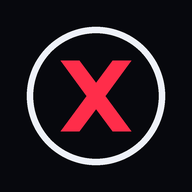
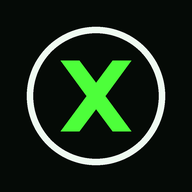
Beyblade green theme

Changed region(s): [[0.3125, 0.3125, 0.6875, 0.6875]]

diff --git a/styles.css b/styles.css
@@ -1,18 +1,19 @@
 /* Layout concept: a competition HUD. Angled plates on a dark arena floor,
    one red X accent, and four type colours that only ever mean a Blader type. */
 :root {
-  --ink: #07080d;
-  --panel: #10131d;
-  --panel-2: #171b29;
-  --line: #272d43;
-  --fg: #eef1f8;
-  --muted: #8b93ab;
-  --x: #ff2d4a;
-  --x-dim: #ff2d4a26;
+  --ink: #050a06;
+  --panel: #0c160f;
+  --panel-2: #122016;
+  --line: #213a29;
+  --fg: #effaf1;
+  --muted: #8fab97;
+  --x: #4dff3a;
+  --on-x: #041206;
+  --x-dim: #4dff3a24;
   --volt: #39d3ff;
   --t-atk: #ff4b5c;
   --t-def: #4b8dff;
-  --t-sta: #33dd8f;
+  --t-sta: #22c9bb;
   --t-bal: #ffc23d;
   --good: #33dd8f;
   --bad: #ff4b5c;
@@ -31,7 +32,7 @@ html, body { min-height: 100%; }
 body {
   margin: 0;
   background:
-    radial-gradient(1200px 600px at 85% -10%, #ff2d4a14, transparent 60%),
+    radial-gradient(1200px 600px at 85% -10%, #4dff3a1c, transparent 60%),
     radial-gradient(900px 500px at -10% 110%, #39d3ff10, transparent 60%),
     repeating-linear-gradient(115deg, transparent 0 46px, #ffffff05 46px 47px),
     var(--ink);
@@ -57,7 +58,7 @@ h1, h2, h3 { font-family: var(--f-display); font-weight: 800; line-height: .95; 
   position: sticky; top: env(safe-area-inset-top, 0px); z-index: 20;
   display: flex; align-items: center; gap: 14px; flex-wrap: wrap;
   padding: 12px var(--gutter);
-  background: #07080dee; backdrop-filter: blur(8px);
+  background: #050a06ee; backdrop-filter: blur(8px);
   border-bottom: 1px solid var(--line);
 }
 .brand { display: flex; align-items: center; gap: 10px; text-decoration: none; color: var(--fg); margin-right: auto; }
@@ -86,7 +87,7 @@ h1, h2, h3 { font-family: var(--f-display); font-weight: 800; line-height: .95; 
 }
 .btn:hover { filter: brightness(1.2); }
 .btn:active { transform: translateY(1px); }
-.btn.primary { --b: var(--x); --c: #fff; }
+.btn.primary { --b: var(--x); --c: var(--on-x); }
 .btn.ghost { --b: transparent; box-shadow: inset 0 0 0 1px var(--line); }
 .btn.small { min-height: 34px; padding: 6px 14px; font-size: 12px; --cut: 8px; }
 .btn.danger { --b: #ff4b5c22; --c: var(--bad); }
@@ -122,8 +123,8 @@ h1, h2, h3 { font-family: var(--f-display); font-weight: 800; line-height: .95; 
 .door:hover { border-color: var(--muted); transform: translateY(-2px); }
 .door strong { font: 800 clamp(28px, 3.4vw, 38px)/1 var(--f-display); text-transform: uppercase; }
 .door span:last-child { color: var(--muted); font-size: 15px; }
-.door-main { background: linear-gradient(135deg, var(--x) 0%, #b5122a 100%); border-color: transparent; }
-.door-main .k, .door-main span:last-child { color: #ffffffcc; }
+.door-main { background: linear-gradient(135deg, var(--x) 0%, #178f1f 100%); border-color: transparent; color: var(--on-x); }
+.door-main .k, .door-main span:last-child { color: #041206cc; }
 .ticker { display: flex; gap: 28px; flex-wrap: wrap; margin-top: 10px; padding-top: 18px; border-top: 1px solid var(--line); }
 .ticker div { display: grid; gap: 2px; }
 .ticker b { font: 700 28px/1 var(--f-hud); font-variant-numeric: tabular-nums; }
@@ -258,7 +259,7 @@ input:focus, select:focus, textarea:focus { outline: none; border-color: var(--v
 .optrow .grid4 label { font: 600 10px/1 var(--f-hud); letter-spacing: .12em; color: var(--tc); }
 
 .screen-pick { display: grid; grid-template-columns: repeat(auto-fit, minmax(130px, 1fr)); gap: 8px; }
-.screen-pick .btn[aria-pressed="true"] { --b: var(--x); --c: #fff; }
+.screen-pick .btn[aria-pressed="true"] { --b: var(--x); --c: var(--on-x); }
 
 /* ---------- modal ---------- */
 .modal-bg { position: fixed; inset: 0; z-index: 50; background: #000000b3; display: grid; place-items: start center; overflow-y: auto; padding: max(24px, env(safe-area-inset-top, 0px)) 16px 40px; }
@@ -308,7 +309,7 @@ body[data-view="arena"] { overflow: hidden; }
 .versus .vs { font: 900 clamp(50px, 14vh, 200px)/1 var(--f-display); color: var(--x); }
 .versus .names-row { display: flex; gap: 1.6vw; flex-wrap: wrap; justify-content: center; }
 .versus .names-row span { font: 700 clamp(14px, 2.4vh, 30px)/1 var(--f-hud); letter-spacing: .08em; text-transform: uppercase; color: var(--muted); }
-.launch { font: 800 clamp(22px, 4.4vh, 60px)/1 var(--f-display); text-transform: uppercase; letter-spacing: .06em; padding: 1.4vh 3vw; background: var(--x); color: #fff; clip-path: polygon(20px 0, 100% 0, calc(100% - 20px) 100%, 0 100%); animation: pulse 1.6s ease-in-out infinite; }
+.launch { font: 800 clamp(22px, 4.4vh, 60px)/1 var(--f-display); text-transform: uppercase; letter-spacing: .06em; padding: 1.4vh 3vw; background: var(--x); color: var(--on-x); clip-path: polygon(20px 0, 100% 0, calc(100% - 20px) 100%, 0 100%); animation: pulse 1.6s ease-in-out infinite; }
 
 /* ---------- live team quiz ---------- */
 .live-me { display: grid; grid-template-columns: 48px 1fr auto; gap: 12px; align-items: center; padding: 12px 14px; background: var(--panel); border: 1px solid var(--line); margin-bottom: 26px; }
@@ -319,7 +320,7 @@ body[data-view="arena"] { overflow: hidden; }
 .verdict h1 { font-size: clamp(38px, 9vw, 60px); }
 .verdict.win h1 { color: var(--good); }
 .verdict.lose h1 { color: var(--muted); }
-.cd-chip { font: 700 22px/1 var(--f-hud); min-width: 54px; text-align: center; padding: 8px 10px; background: var(--x); color: #fff; clip-path: polygon(8px 0, 100% 0, calc(100% - 8px) 100%, 0 100%); }
+.cd-chip { font: 700 22px/1 var(--f-hud); min-width: 54px; text-align: center; padding: 8px 10px; background: var(--x); color: var(--on-x); clip-path: polygon(8px 0, 100% 0, calc(100% - 8px) 100%, 0 100%); }
 .chip.warnchip { color: var(--t-bal); border-color: #ffc23d66; margin-left: 6px; vertical-align: middle; }
 .qopts span.right { color: var(--good); background: #33dd8f1a; }
 .qr-mini { background: #fff; padding: 4px; width: 110px; aspect-ratio: 1; max-width: 100%; }

diff --git a/index.html b/index.html
@@ -5,7 +5,7 @@
 <meta name="viewport" content="width=device-width,initial-scale=1,viewport-fit=cover">
 <title>Baeblade Academy</title>
 <meta name="description" content="Blader assessments, teams and arena control for the Baeblade Academy party.">
-<meta name="theme-color" content="#07080d">
+<meta name="theme-color" content="#050a06">
 <link rel="manifest" href="manifest.json">
 <link rel="icon" href="icon-192.png">
 <link rel="apple-touch-icon" href="icon-192.png">
@@ -14,15 +14,15 @@
 <link rel="preconnect" href="https://fonts.googleapis.com">
 <link rel="preconnect" href="https://fonts.gstatic.com" crossorigin>
 <link rel="stylesheet" href="https://fonts.googleapis.com/css2?family=Big+Shoulders+Display:wght@600;800;900&family=Barlow:wght@400;500;600&family=Chakra+Petch:wght@500;600;700&display=swap">
-<link rel="stylesheet" href="styles.css?v=7">
+<link rel="stylesheet" href="styles.css?v=8">
 </head>
 <body>
 <div id="app"><p class="boot">Loading Baeblade Academy…</p></div>
 <div id="modal-root"></div>
 <div id="toasts" aria-live="polite"></div>
-<script src="config.js?v=7"></script>
-<script src="defaults.js?v=7"></script>
-<script src="qrcode.js?v=7"></script>
-<script src="app.js?v=7"></script>
+<script src="config.js?v=8"></script>
+<script src="defaults.js?v=8"></script>
+<script src="qrcode.js?v=8"></script>
+<script src="app.js?v=8"></script>
 </body>
 </html>

diff --git a/app.js b/app.js
@@ -17,7 +17,7 @@ const STATS = [
 const EXP = ['Beginner', 'Intermediate', 'Expert'];
 const EXP_W = { Beginner: 1, Intermediate: 2, Expert: 3 };
 
-const LOGO = `<svg viewBox="0 0 64 64" aria-hidden="true"><circle cx="32" cy="32" r="28" fill="none" stroke="#eef1f8" stroke-width="3" stroke-dasharray="34 10"/><circle cx="32" cy="32" r="20" fill="none" stroke="#272d43" stroke-width="2"/><path d="M13 13h10l9 12 9-12h10L37 32l14 19H41l-9-12-9 12H13l14-19z" fill="#ff2d4a"/></svg>`;
+const LOGO = `<svg viewBox="0 0 64 64" aria-hidden="true"><circle cx="32" cy="32" r="28" fill="none" stroke="#effaf1" stroke-width="3" stroke-dasharray="34 10"/><circle cx="32" cy="32" r="20" fill="none" stroke="#213a29" stroke-width="2"/><path d="M13 13h10l9 12 9-12h10L37 32l14 19H41l-9-12-9 12H13l14-19z" fill="#4dff3a"/></svg>`;
 
 /* ---------- small helpers ---------- */
 const $ = (s, r = document) => r.querySelector(s);
